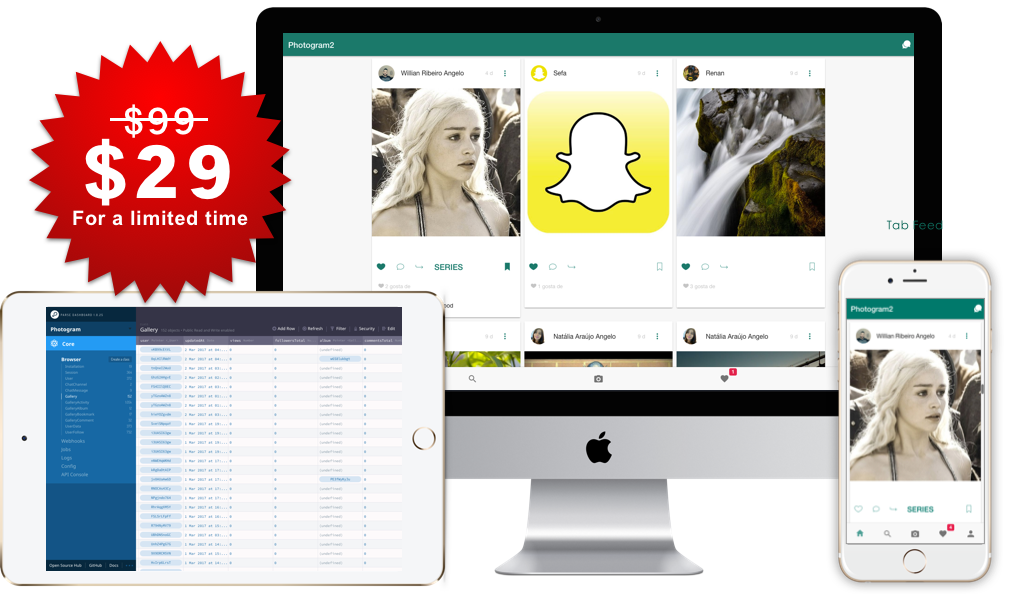
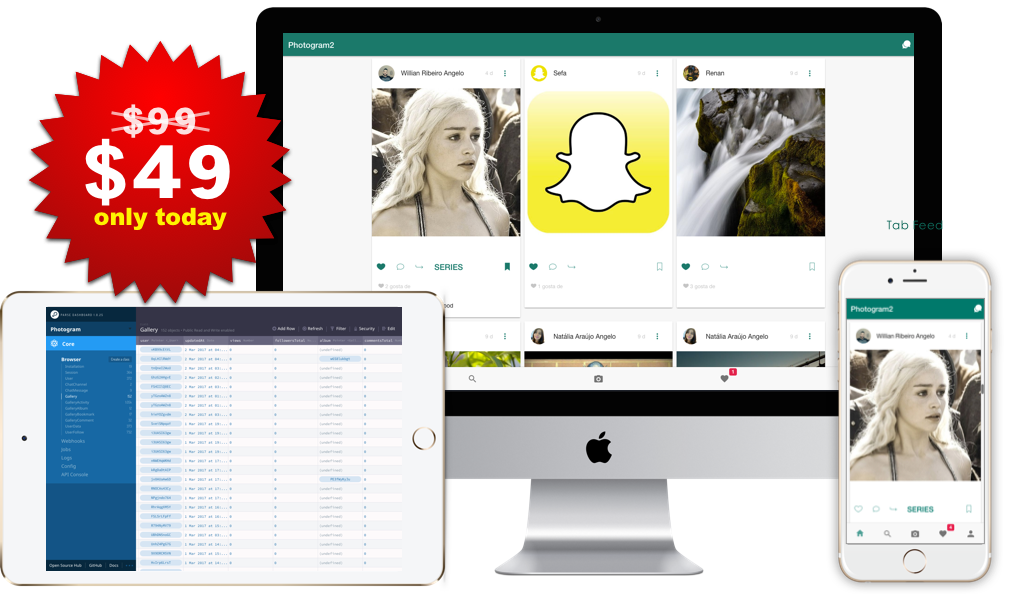
End promo

diff --git a/index.html b/index.html
@@ -241,9 +241,9 @@ for iPhones and Androids">
                 <!-- Pricing Plan - 1 -->
                 <div class="col-md-12 price-styles2 price-one-el" style="display: block;">
                     <div class="silver">
-                        <h1 class="mbr-title-font">For a limited time</h1>
+                        <h1 class="mbr-title-font">Promo</h1>
                         <h2 class="mbr-title-font"></h2>
-                        <div class="price mbr-title-font mbr-primary-bgColor">$29</div>
+                        <div class="price mbr-title-font mbr-primary-bgColor">$49</div>
                         <div><p>Ionic 2 Full Source Code</p><p>Open Source Parse Server Customized</p><p>Chat with Parse Live Queries</p><p>Free updates</p></div>
                         <div><a href="https://www.paypal.com/cgi-bin/webscr?cmd=_s-xclick&hosted_button_id=FAW4JZS7KJM5S" class="btn mbr-title-font btn-primary" target="_blank">buy now</a></div>
                     </div>
@@ -254,7 +254,7 @@ for iPhones and Androids">
                     <div class="gold">
                         <h1 class="mbr-title-font">International</h1>
                         <h2 class="mbr-title-font"></h2>
-                        <div class="price mbr-title-font mbr-primary-bgColor">$29</div>
+                        <div class="price mbr-title-font mbr-primary-bgColor">$49</div>
                         <div><p>Ionic 2 Full Source Code</p><p>Open Source Parse Server Customized</p><p>Chat with Parse Live Queries</p><p>Free updates</p></div>
                         <div><a href="https://www.paypal.com/cgi-bin/webscr?cmd=_s-xclick&amp;hosted_button_id=FAW4JZS7KJM5S" class="btn mbr-title-font btn-primary" target="_blank">buy now</a></div>
                         </div>
